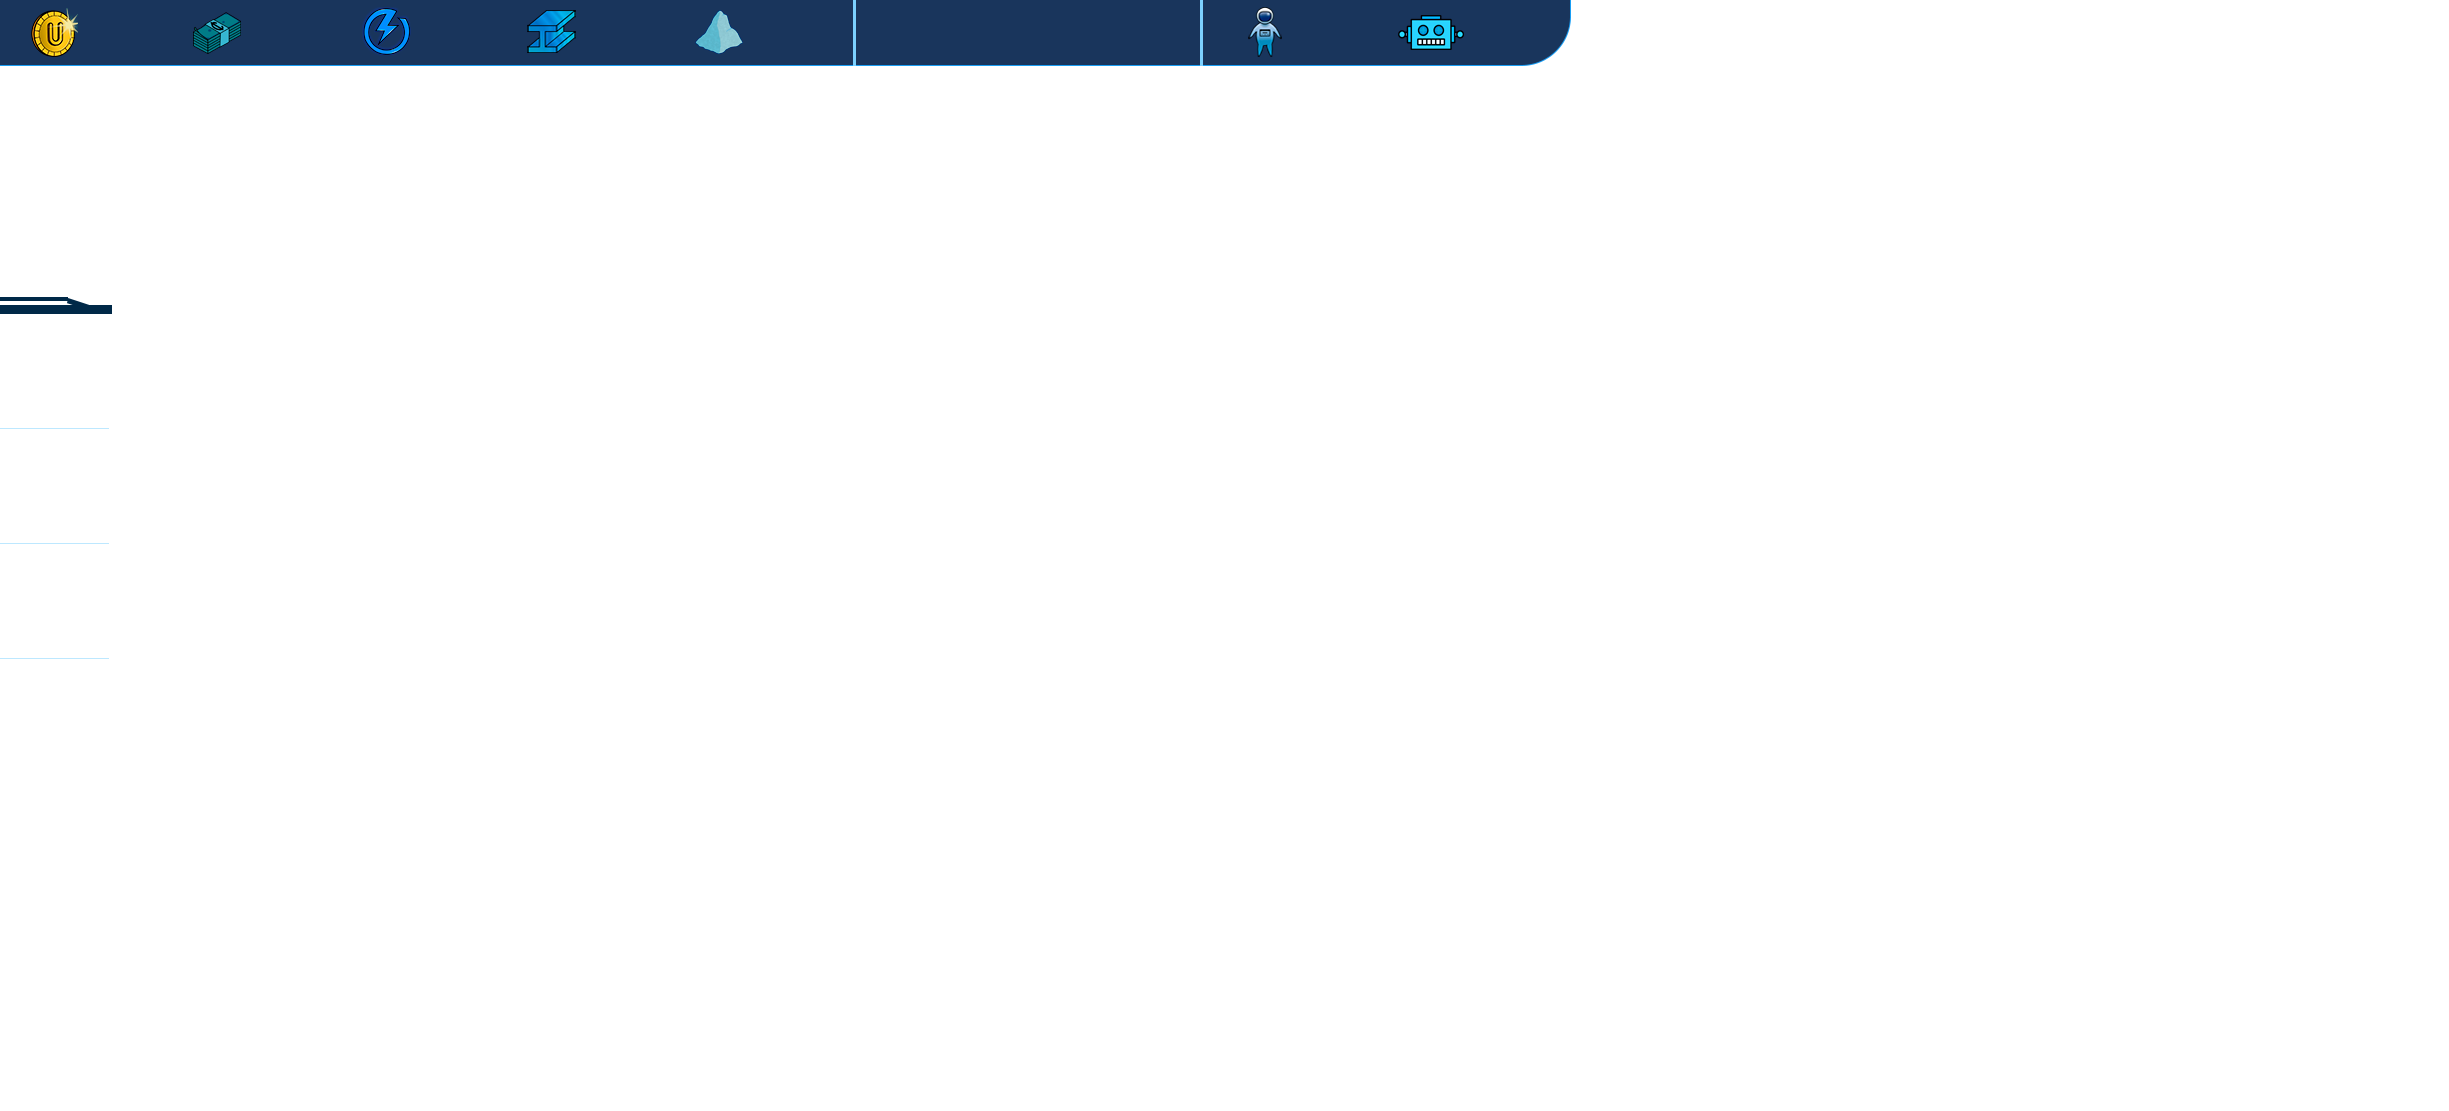
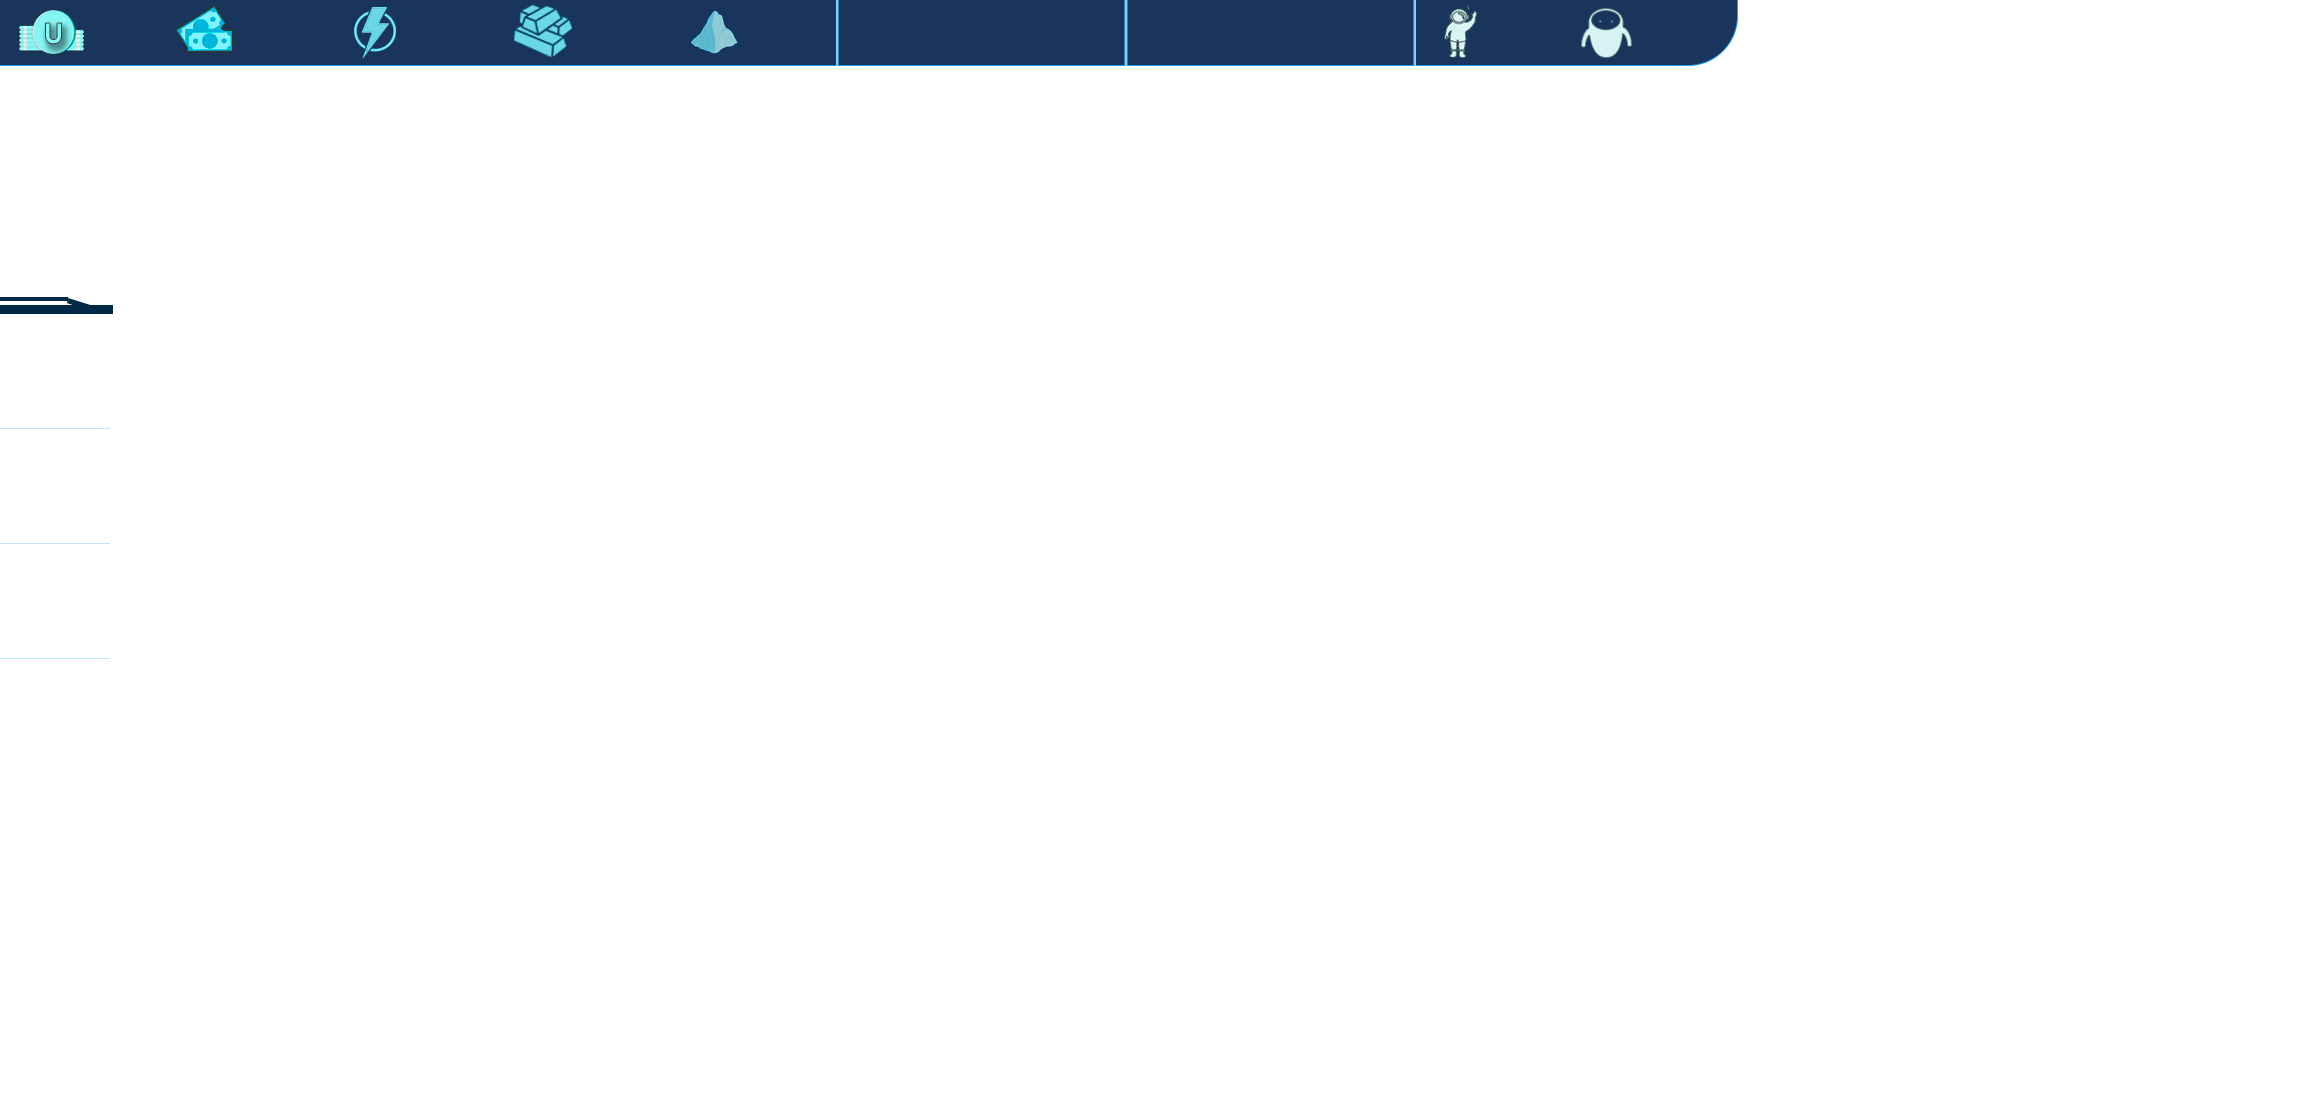
Nuevos iconos y nombre de ciudad añadido

diff --git a/ZeroGravity/src/main/resources/static/src/scenes/gameMenus/gameInterface.js b/ZeroGravity/src/main/resources/static/src/scenes/gameMenus/gameInterface.js
@@ -34,14 +34,17 @@ class GameInterface extends Phaser.Scene {
     	this.metal = this.add.text(588, 22, game.global.resources.metal, { fontFamily: '"Roboto Condensed"', color: 'white', fontSize: '18px' });
     	this.ceramica = this.add.text(755, 22, game.global.resources.ceramica, { fontFamily: '"Roboto Condensed"', color: 'white', fontSize: '18px' });
     	this.creditos = this.add.text(248, 22, game.global.resources.creditos, { fontFamily: '"Roboto Condensed"', color: 'white', fontSize: '18px' });
-    	this.unionCoins = this.add.text(80, 22, game.global.resources.unionCoins, { fontFamily: '"Roboto Condensed"', color: 'white', fontSize: '18px' });
-    	this.colonos = this.add.text(1298, 22, game.global.resources.colonos, { fontFamily: '"Roboto Condensed"', color: 'white', fontSize: '18px' });
+    	this.unionCoins = this.add.text(100, 22, game.global.resources.unionCoins, { fontFamily: '"Roboto Condensed"', color: 'white', fontSize: '18px' });
+    	this.colonos = this.add.text(1500, 22, game.global.resources.colonos, { fontFamily: '"Roboto Condensed"', color: 'white', fontSize: '18px' });
     	
-    	this.e1 = this.add.image(920, 15, 'starIcon').setOrigin(0, 0);
-    	this.e2 = this.add.image(970, 15, 'starIcon').setOrigin(0, 0);
-    	this.e3 = this.add.image(1020, 15, 'starIcon').setOrigin(0, 0);
-    	this.e4 = this.add.image(1070, 15, 'starIcon').setOrigin(0, 0);
-    	this.e5 = this.add.image(1120, 15, 'starIcon').setOrigin(0, 0);
+    	this.e1 = this.add.image(1150, 15, 'starIcon').setOrigin(0, 0);
+    	this.e2 = this.add.image(1200, 15, 'starIcon').setOrigin(0, 0);
+    	this.e3 = this.add.image(1250, 15, 'starIcon').setOrigin(0, 0);
+    	this.e4 = this.add.image(1300, 15, 'starIcon').setOrigin(0, 0);
+    	this.e5 = this.add.image(1350, 15, 'starIcon').setOrigin(0, 0);
+    	
+    	
+    	this.nombre = this.add.text(865, 18, "AGATUPITI STATION", { fontFamily: '"Roboto"', color: 'white', fontSize: '26px' });
     	
 
     	this.e1.setFrame(1);

diff --git a/ZeroGravity/target/classes/static/src/scenes/gameMenus/gameInterface.js b/ZeroGravity/target/classes/static/src/scenes/gameMenus/gameInterface.js
@@ -34,14 +34,17 @@ class GameInterface extends Phaser.Scene {
     	this.metal = this.add.text(588, 22, game.global.resources.metal, { fontFamily: '"Roboto Condensed"', color: 'white', fontSize: '18px' });
     	this.ceramica = this.add.text(755, 22, game.global.resources.ceramica, { fontFamily: '"Roboto Condensed"', color: 'white', fontSize: '18px' });
     	this.creditos = this.add.text(248, 22, game.global.resources.creditos, { fontFamily: '"Roboto Condensed"', color: 'white', fontSize: '18px' });
-    	this.unionCoins = this.add.text(80, 22, game.global.resources.unionCoins, { fontFamily: '"Roboto Condensed"', color: 'white', fontSize: '18px' });
-    	this.colonos = this.add.text(1298, 22, game.global.resources.colonos, { fontFamily: '"Roboto Condensed"', color: 'white', fontSize: '18px' });
+    	this.unionCoins = this.add.text(100, 22, game.global.resources.unionCoins, { fontFamily: '"Roboto Condensed"', color: 'white', fontSize: '18px' });
+    	this.colonos = this.add.text(1500, 22, game.global.resources.colonos, { fontFamily: '"Roboto Condensed"', color: 'white', fontSize: '18px' });
     	
-    	this.e1 = this.add.image(920, 15, 'starIcon').setOrigin(0, 0);
-    	this.e2 = this.add.image(970, 15, 'starIcon').setOrigin(0, 0);
-    	this.e3 = this.add.image(1020, 15, 'starIcon').setOrigin(0, 0);
-    	this.e4 = this.add.image(1070, 15, 'starIcon').setOrigin(0, 0);
-    	this.e5 = this.add.image(1120, 15, 'starIcon').setOrigin(0, 0);
+    	this.e1 = this.add.image(1150, 15, 'starIcon').setOrigin(0, 0);
+    	this.e2 = this.add.image(1200, 15, 'starIcon').setOrigin(0, 0);
+    	this.e3 = this.add.image(1250, 15, 'starIcon').setOrigin(0, 0);
+    	this.e4 = this.add.image(1300, 15, 'starIcon').setOrigin(0, 0);
+    	this.e5 = this.add.image(1350, 15, 'starIcon').setOrigin(0, 0);
+    	
+    	
+    	this.nombre = this.add.text(865, 18, "AGATUPITI STATION", { fontFamily: '"Roboto"', color: 'white', fontSize: '26px' });
     	
 
     	this.e1.setFrame(1);
